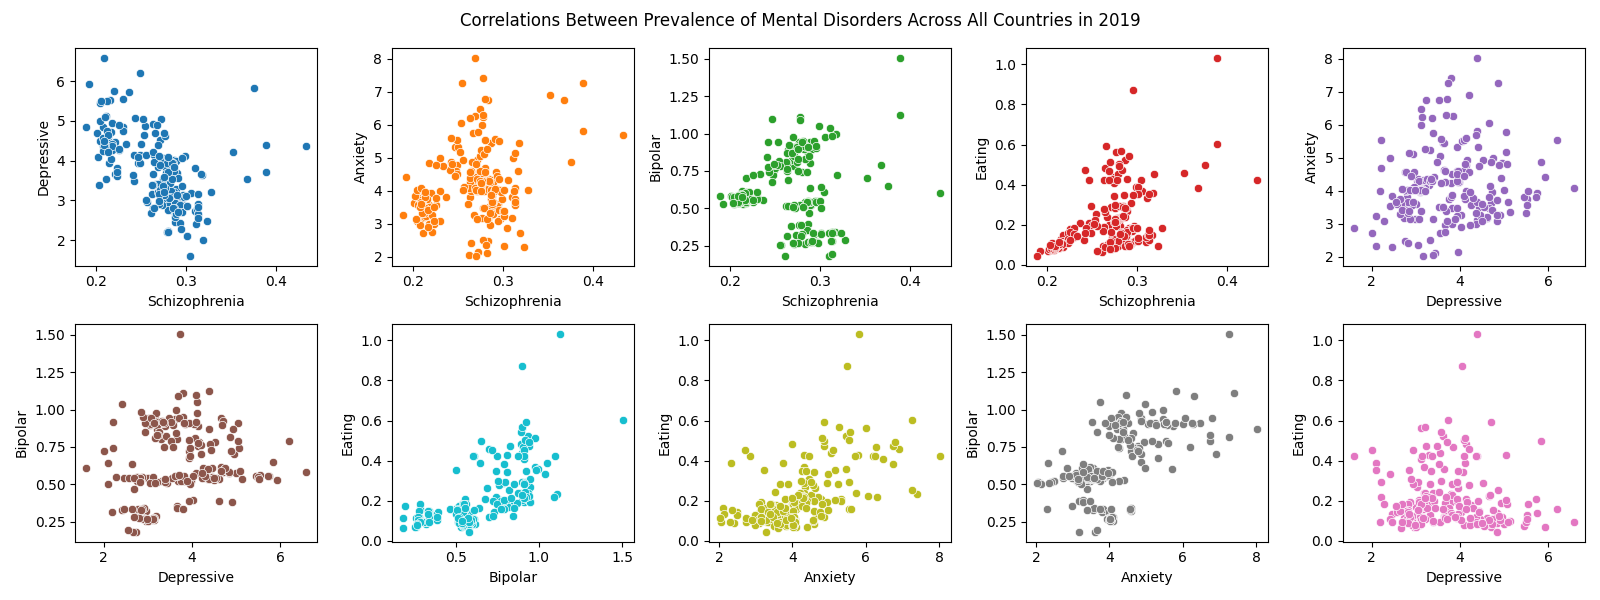
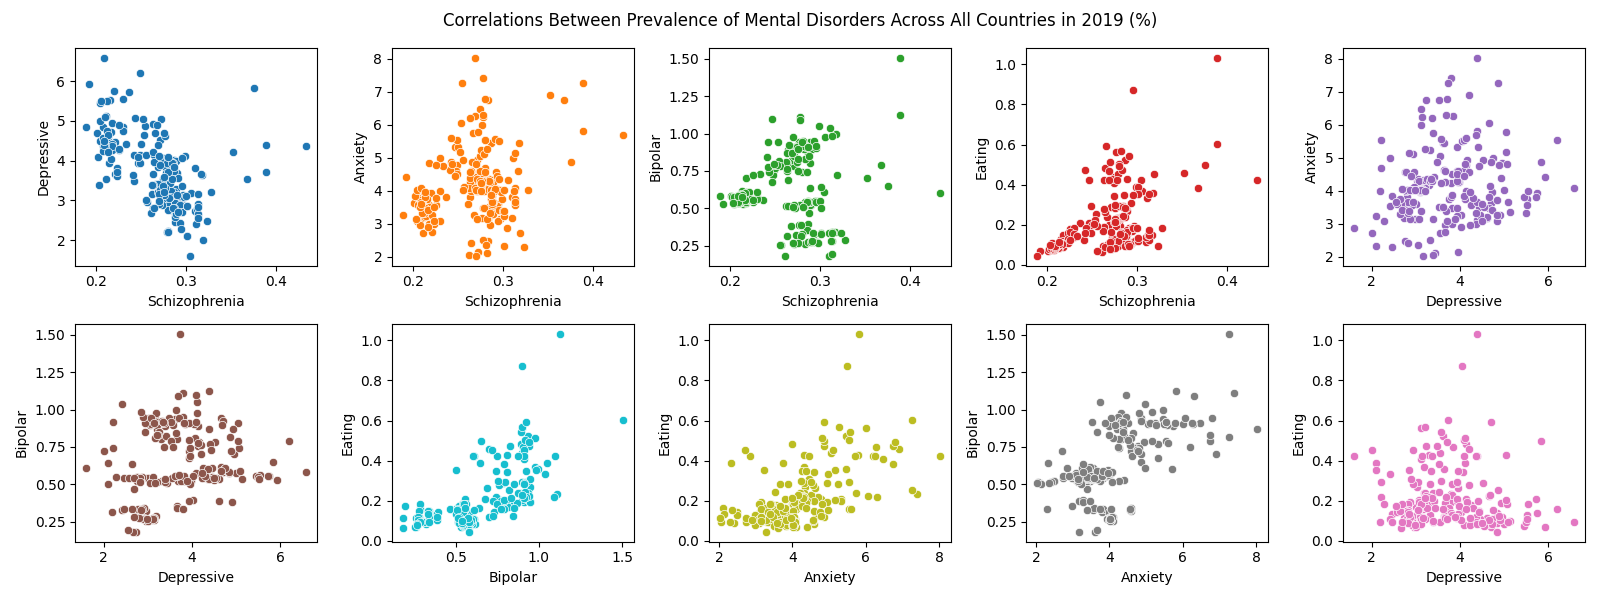
disorder means

Changed region(s): [[0.2812, 0.0, 0.7188, 0.06]]

diff --git a/viz.py b/viz.py
@@ -9,6 +9,8 @@ from itertools import combinations
 
 
 df = pandas.read_csv("mental-illness_data.csv")
+continents = pandas.read_csv("continents2.csv")
+continents.set_index('name', inplace=True)
 
 select = ["Schizophrenia", "Depressive", "Anxiety", "Bipolar", "Eating"]
 is2019 = df['Year'] == 2019
@@ -37,9 +39,25 @@ for combination in combinations:
         sns.scatterplot(x=x, y=y, ax=ax[1, 5 - counter], color=palette[counter])
     counter += 1
 
-fig.suptitle("Correlations Between Prevalence of Mental Disorders Across All Countries in 2019")
+fig.suptitle("Correlations Between Prevalence of Mental Disorders Across All Countries in 2019 (%)")
 plt.tight_layout()
 plt.savefig("Graphs/disorderCorrelations.png")
+plt.clf()
 
+fig, ax = plt.subplots(1, 5, figsize=(16, 6))
+counter = 0
+for disorder in select:
+    means_per_year = {}
+    for year in df["Year"]:
+        if year % 2 == 0:
+            mean = df.loc[df["Year"] == year, disorder].mean()
+            means_per_year[year] = mean
+    sns.lineplot(means_per_year, ax=ax[counter])
+    ax[counter].set_title(disorder)
+    counter += 1
+
+fig.suptitle("Mean Prevalence of Disorders Throughout All Countries Over Time")
+plt.tight_layout()
+plt.savefig("Graphs/meansOverTime.png")
 
 
